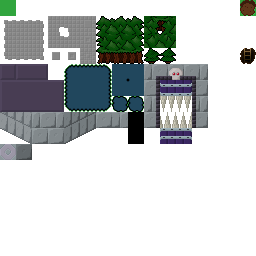
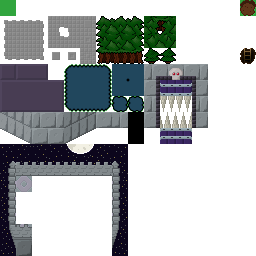
pretty up wolf's room -- broken, he catches on corners now

Changed region(s): [[0.0, 0.5625, 0.5, 1.0]]

diff --git a/src/opt/gl2/game/fmn_gl2_sprites.c b/src/opt/gl2/game/fmn_gl2_sprites.c
@@ -409,6 +409,22 @@ void fmn_gl2_game_render_FLOORFIRE(struct bigpc_render_driver *driver,struct fmn
       if ((x<-1.0f)||(x>xlimit)) continue;
       float y=sprite->y+sinf(t)*radius;
       if ((y<-1.0f)||(y>ylimit)) continue;
+      
+      // Don't render fire on solid tiles or offscreen.
+      // The sky surrounding werewolf's tower is technically solid.
+      int8_t xi=(int8_t)x;
+      int8_t yi=(int8_t)y;
+      if ((xi<0)||(yi<0)||(xi>=FMN_COLC)||(yi>=FMN_ROWC)) {
+        continue;
+      }
+      switch (fmn_global.cellphysics[fmn_global.map[yi*FMN_COLC+xi]]) {
+        case FMN_CELLPHYSICS_SOLID:
+        case FMN_CELLPHYSICS_UNCHALKABLE:
+        case FMN_CELLPHYSICS_SAP:
+        case FMN_CELLPHYSICS_SAP_NOCHALK:
+          continue;
+      }
+      
       fmn_gl2_game_add_mintile_vtx(driver,x,y,tileid,0);
     }
   }

diff --git a/README.md b/README.md
@@ -19,7 +19,7 @@ And tentatively aiming for full release 29 September 2023, the first full moon o
 - - fmn_bcm.c:81: Changed 100 to 80. Try again.
 - [ ] Pi: Can't exit without SSH. Ensure local keyboard can quit.
 - [ ] Graphics touch-up.
-- - [ ] Wolf's room
+- - [x] Wolf's room
 - - [ ] Village interiors
 - - [ ] Village exterior
 - - [ ] Forest, use those nice big trees
